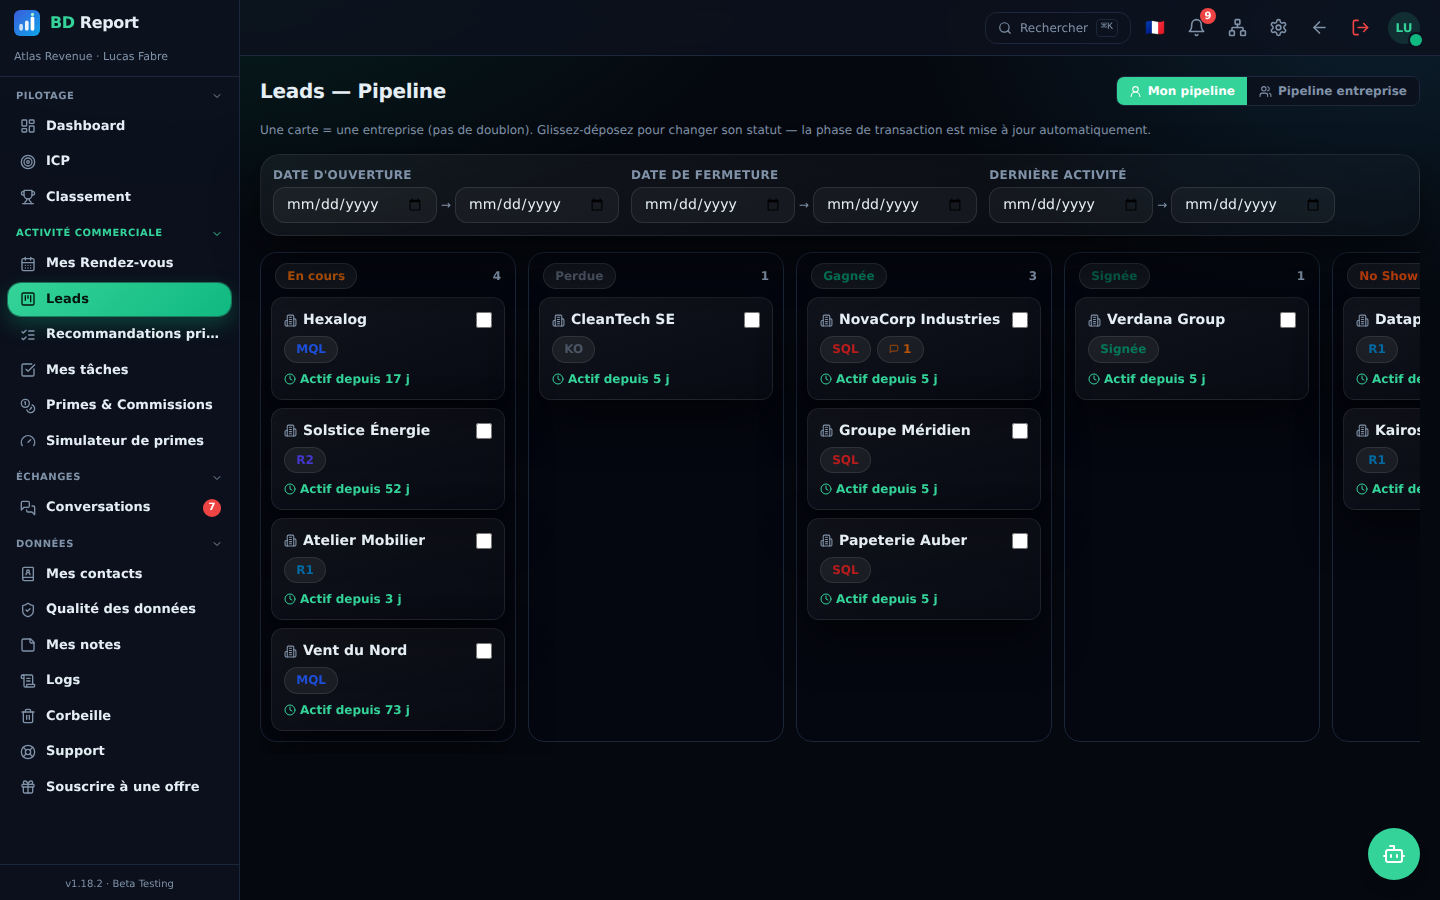
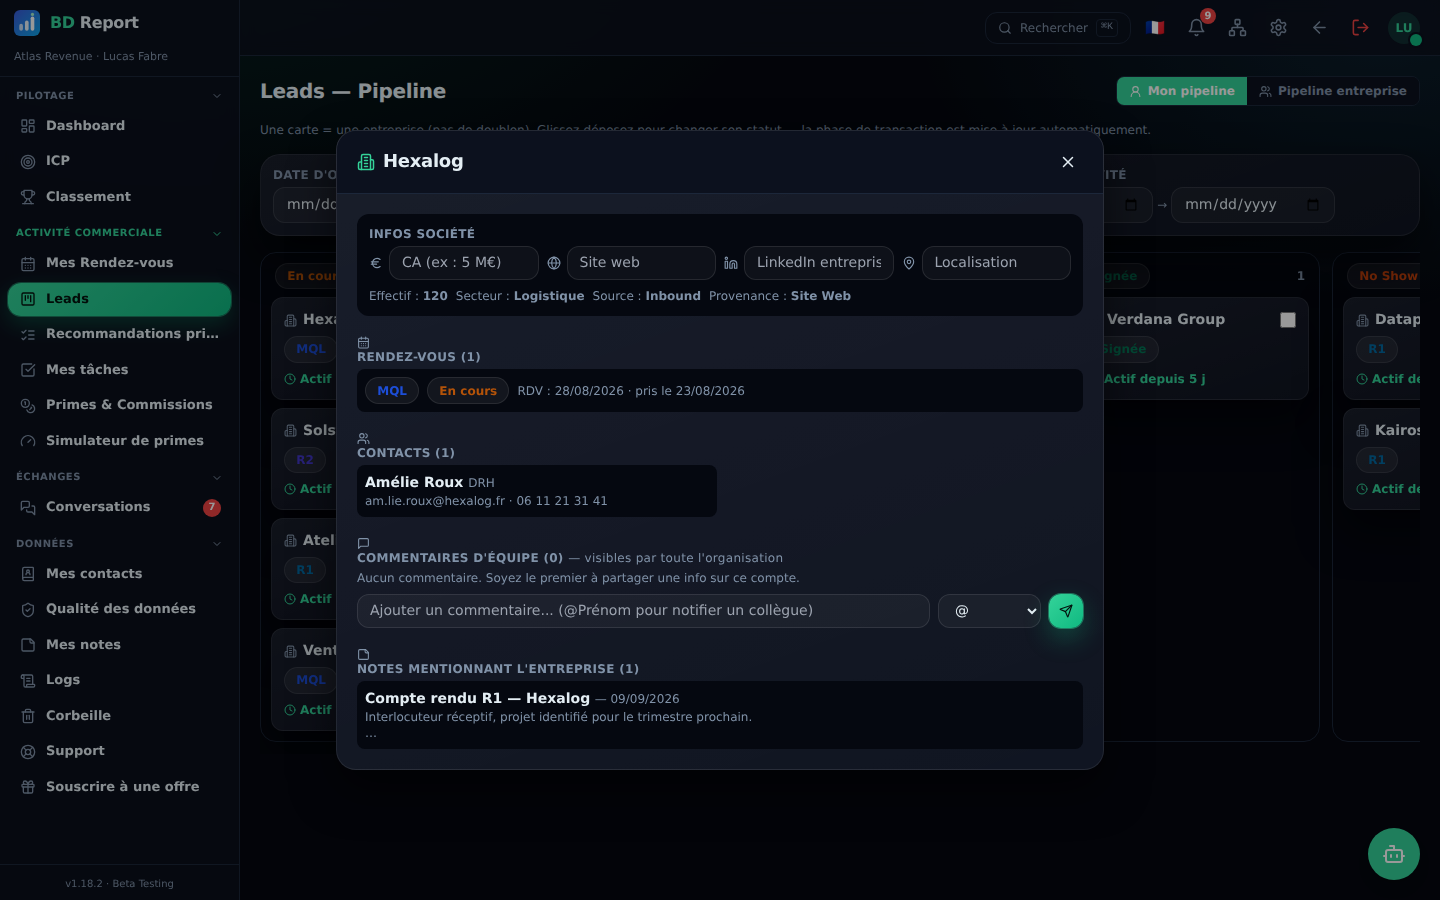
fmtDate accepte un horodatage, et les captures du site sont régénérées
La fiche entreprise affichait « Invalid Date » sous chaque note : fmtDate
concaténait « T00:00:00 » à sa valeur, ce qui suppose une date seule, alors que
createdAt est un horodatage ISO complet. Elle tronque désormais à la partie date
et renvoie « — » plutôt qu'une date invalide, ce qui vaut pour tous ses
appelants. Le smoke fige les trois cas.

Le script de captures referme le panneau qu'une prise de vue a ouvert : laissé
ouvert, il recouvrait la page et interceptait les clics suivants — le passage en
casquette manager échouait, et teamlead/orgchart n'étaient plus régénérés.

Captures refaites : le graphique des primes se lit, la fiche entreprise affiche
une vraie date, et calendar/company montrent enfin la vue annoncée par leur
légende.

Claude-Session: https://claude.ai/code/session_01TQYeMHDBAhMgz1SYCBwizb

diff --git a/scripts/smoke.jsx b/scripts/smoke.jsx
@@ -29,7 +29,14 @@ async function main() {
   const { act } = await import('react')
   const { createRoot } = await import('react-dom/client')
   const { Simulate } = await import('react-dom/test-utils')
-  const { StoreProvider, buildDemoDb, demoSession, applyRdvAutomations, rdvNeedsSqlDate } = await import('../src/store.jsx')
+  const { StoreProvider, buildDemoDb, demoSession, applyRdvAutomations, rdvNeedsSqlDate, fmtDate } = await import('../src/store.jsx')
+
+  // fmtDate reçoit tantôt une date seule, tantôt un horodatage ISO complet (createdAt).
+  // Concaténer l'heure à un horodatage donnait « Invalid Date », affiché tel quel sur la
+  // fiche entreprise — et publié sur une capture du site.
+  if (fmtDate('2026-09-09') !== '09/09/2026') throw new Error('fmtDate broke on a plain date')
+  if (fmtDate('2026-09-09T08:30:00.000Z') !== '09/09/2026') throw new Error('fmtDate must accept a full ISO timestamp')
+  if (fmtDate('') !== '—' || fmtDate('n\'importe quoi') !== '—') throw new Error('fmtDate must never render "Invalid Date"')
 
   // Automatisations de statut vs pipeline personnalisé : une phase renommée dans
   // « Créer votre écosystème » doit suivre, et une phase supprimée ne doit jamais être

diff --git a/src/store.jsx b/src/store.jsx
@@ -35,7 +35,15 @@ export function fmtMoney(n, currency = CURRENT_CURRENCY) {
 // ---------------------------------------------------------------- Helpers dates
 export const todayISO = () => new Date().toISOString().slice(0, 10)
 export const parseISO = (s) => (s ? new Date(s + 'T00:00:00') : null)
-export const fmtDate = (s) => (s ? new Date(s + 'T00:00:00').toLocaleDateString('fr-FR') : '—')
+// Accepte aussi bien 'AAAA-MM-JJ' qu'un horodatage ISO complet : concaténer 'T00:00:00'
+// à un horodatage donnait une date invalide, affichée telle quelle à l'écran
+// (« Invalid Date » sur la fiche entreprise). Le midi local reste imposé pour que la
+// date affichée soit celle saisie, quel que soit le fuseau du navigateur.
+export const fmtDate = (s) => {
+  if (!s) return '—'
+  const d = new Date(String(s).slice(0, 10) + 'T00:00:00')
+  return isNaN(d.getTime()) ? '—' : d.toLocaleDateString('fr-FR')
+}
 export const uid = () => Math.random().toString(36).slice(2, 10)
 // Ajout de jours en UTC (stable quel que soit le fuseau du navigateur)
 const addDaysISO = (s, n) => { const d = new Date(s + 'T00:00:00Z'); d.setUTCDate(d.getUTCDate() + n); return d.toISOString().slice(0, 10) }
